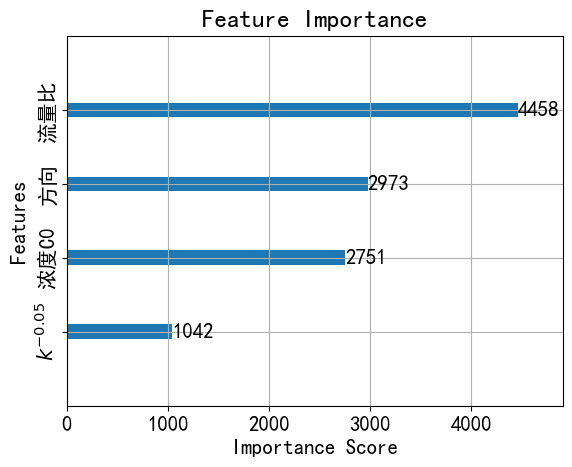
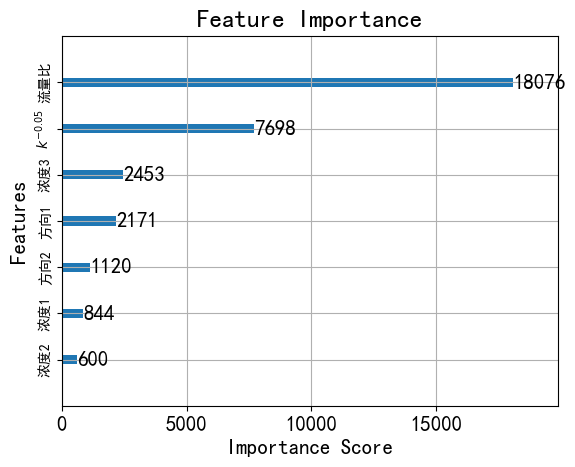
first

diff --git a/train_all.py b/train_all.py
@@ -1,6 +1,6 @@
 from tensorboardX import SummaryWriter
 import numpy as np
-from utils.handler import get_data
+from utils.handler import get_data,onehotHandler
 from torch.utils.data import DataLoader,Dataset,TensorDataset
 from model.net_f1 import Net
 import torch
@@ -10,26 +10,28 @@ BATCH_SIZE=50
 
 def main():
     data=get_data('data/oil_data.xlsx')
-    features=['支管与主管流量比Q1/Q0','主管内固体浓度C0','k,-0.05次方','PTE']
+    one_hot_feature=['输入方向','主管内固体浓度C0']
+    data=onehotHandler(data,one_hot_feature)
+    features=['支管与主管流量比Q1/Q0','k,-0.05次方','PTE']
 
-    #z-score normalization
-    datas=np.array(data[features].apply(lambda x:(x-x.mean())/(x.std())))
-
+    # #z-score normalization
+    # datas=np.array(data[features].apply(lambda x:(x-x.mean())/(x.std())))
+    data=np.array(data[features])
 
     train_data=[]
     test_data=[]
-    for i in range(datas.shape[0]):
+    for i in range(data.shape[0]):
         if i%10==0:
-            test_data.append(datas[i])
+            test_data.append(data[i])
         else:
-            train_data.append(datas[i])
+            train_data.append(data[i])
 
     train_data=np.array(train_data,dtype=np.float32)
     test_data=np.array(test_data,dtype=np.float32)
     train_loader=DataLoader(dataset=train_data,batch_size=BATCH_SIZE,shuffle=False)
     test_loader=DataLoader(dataset=test_data,batch_size=1,shuffle=False)
 
-    net=Net(3,3,3,1)
+    net=Net(2,4,4,1)
     optimizer=torch.optim.Adam(net.parameters(),lr=0.001)
     loss_func=torch.nn.MSELoss()
     timestamp = time.strftime('%Y-%m-%d', time.localtime(time.time()))
@@ -39,7 +41,7 @@ def main():
     for epoch in range(500):
          for step,data in enumerate(train_loader):
              # x,y=Variable(x),Variable(y)
-             x, y = data[:, 0:3], data[:, 3].reshape(data.shape[0], 1)
+             x, y = data[:, 0:2], data[:, 2].reshape(data.shape[0], 1)
              #print(x)
              prediction=net(x)
              loss=loss_func(prediction,y)
@@ -52,7 +54,7 @@ def main():
     net.eval()
     pre_loss=0
     for step,data in enumerate(test_loader):
-         x, y = data[:, 0:3], data[:, 3].reshape(data.shape[0], 1)
+         x, y = data[:, 0:2], data[:, 2].reshape(data.shape[0], 1)
          prediction=net(x)
          pre_loss=loss_func(prediction,y)
          writer.add_scalar('test_loss',pre_loss.item(),step)

diff --git a/features_ana.py b/features_ana.py
@@ -1,6 +1,6 @@
 from tensorboardX import SummaryWriter
 import numpy as np
-from utils.handler import get_data
+from utils.handler import get_data,onehotHandler
 from torch.utils.data import DataLoader,Dataset,TensorDataset
 from model.net_f1 import Net
 import torch
@@ -17,12 +17,16 @@ plt.rcParams['font.size']=15
 
 def main():
     data=get_data('data/oil_data.xlsx')
-    features=['输入方向','支管与主管流量比Q1/Q0','主管内固体浓度C0','k,-0.05次方','PTE']
-    model=xgb.XGBRegressor(learning_rate=0.001,n_estimators=500,max_depth=5)
-    #z-score normalization
-    datas=np.array(data[features].apply(lambda x:(x-x.mean())/(x.std())))
+    one_hot_feature = ['输入方向', '主管内固体浓度C0']
+    data = onehotHandler(data, one_hot_feature)
+    features=[0,1,2,3,4,5,'支管与主管流量比Q1/Q0','k,-0.05次方','PTE']
+    model=xgb.XGBRegressor(learning_rate=0.001,n_estimators=500,max_depth=10)
+    # #z-score normalization
+    # datas=np.array(data[features].apply(lambda x:(x-x.mean())/(x.std())))
 
-    features=['方向','流量比','${k^{-0.05}}$','浓度C0','PTE']
+    datas=np.array(data[features])
+
+    features=['方向1','方向2','方向3','浓度1','浓度2','浓度3','流量比','${k^{-0.05}}$','PTE']
     train_data=[]
     test_data=[]
     for i in range(datas.shape[0]):
@@ -33,14 +37,15 @@ def main():
 
     train_data=pd.DataFrame(np.array(train_data,dtype=np.float32),columns=features)
     test_data=np.array(test_data,dtype=np.float32)
+
     #dataframe  plot features
-    model.fit(train_data[features[0:4]],train_data[features[4]])
+    model.fit(train_data[features[0:8]],train_data[features[8]])
     #pre=model.predict(test_data[:,0:4])
     plot_importance(model)
     plt.title('Feature Importance')
     plt.xlabel('Importance Score')
     #yticks vertical center
-    plt.yticks(rotation='vertical',verticalalignment='center')
+    plt.yticks(rotation='vertical',verticalalignment='center',fontsize=10)
     plt.savefig('figures/feature_importance.png',bbox_inches='tight')
     plt.show()
 

diff --git a/utils/handler.py b/utils/handler.py
@@ -2,12 +2,14 @@ import pandas as pd
 import numpy as np
 import csv
 import matplotlib.pyplot as plt
+from sklearn.preprocessing import OneHotEncoder
 
 plt.rcParams['font.sans-serif'] = 'SimHei,Times New Roman'
 #plt.rcParams['font.size']=18
-FONTSIZE=18
 
 
+
+#print corr png
 def plot_corr(df):
     pd.plotting.scatter_matrix(df, alpha=0.2, figsize=(8, 8), diagonal='hist')
     # plt.title(wtName)
@@ -23,18 +25,29 @@ def get_data(filename):
     data.replace("downward", 1, inplace=True)
     data.replace("side", 10, inplace=True)
 
-    data.plot(subplots=True, layout=(-1, 3), figsize=(18, 10), sharex=True)
-    plt.savefig("../figures/dataFrames.png", bbox_inches='tight')
+    # data.plot(subplots=True, layout=(-1, 3), figsize=(18, 10), sharex=True)
+    # plt.savefig("../figures/dataFrames.png", bbox_inches='tight')
     # plot_corr(data[['输入方向','支管与主管流量比Q1/Q0','主管内固体浓度C0','惯性指数K','k,-0.05次方','PTE']])
     # #plt.savefig("../figures/corr.png")
     # print(data.corr())
     # data.corr().to_csv("../data/output/corr.csv", index=False, sep=',')
-    plt.show()
+    # plt.show()
     return data
 
 
-# def main():
-#     get_data('../data/oil_data.xlsx')
-#
-# if __name__=='__main__':
-#     main()
+# features one-hot encoder
+def onehotHandler(data,oneHotfeatures):
+    onehotEncoder=OneHotEncoder(sparse=False,handle_unknown="ignore")
+    hot=onehotEncoder.fit_transform(data[oneHotfeatures])
+    hot=pd.DataFrame(hot)
+    data=data.drop(columns=oneHotfeatures)
+    return pd.concat([hot,data],axis=1)
+
+def main():
+    data=get_data('../data/oil_data.xlsx')
+    data=onehotHandler(data,['输入方向','主管内固体浓度C0'])
+
+    print(data)
+
+if __name__=='__main__':
+    main()

diff --git a/train_nonl.py b/train_nonl.py
@@ -10,7 +10,7 @@ BATCH_SIZE=50
 
 def main():
     data=get_data('data/oil_data.xlsx')
-    data=np.array(data)[:,(6,10)]
+    data=np.array(data)[:,(9,10)]
 
     train_data=[]
     test_data=[]
@@ -25,11 +25,11 @@ def main():
     train_loader=DataLoader(dataset=train_data,batch_size=BATCH_SIZE,shuffle=False)
     test_loader=DataLoader(dataset=test_data,batch_size=1,shuffle=False)
 
-    net=Net(1,3,3,1)
+    net=Net(1,4,4,1)
     optimizer=torch.optim.Adam(net.parameters(),lr=0.001)
     loss_func=torch.nn.MSELoss()
     timestamp = time.strftime('%Y-%m-%d', time.localtime(time.time()))
-    writer = SummaryWriter('./log/events'+timestamp+'train_model_Q')
+    writer = SummaryWriter('./log/events'+timestamp+'train_model_K')
     iter=0
     net.train()
     for epoch in range(500):
